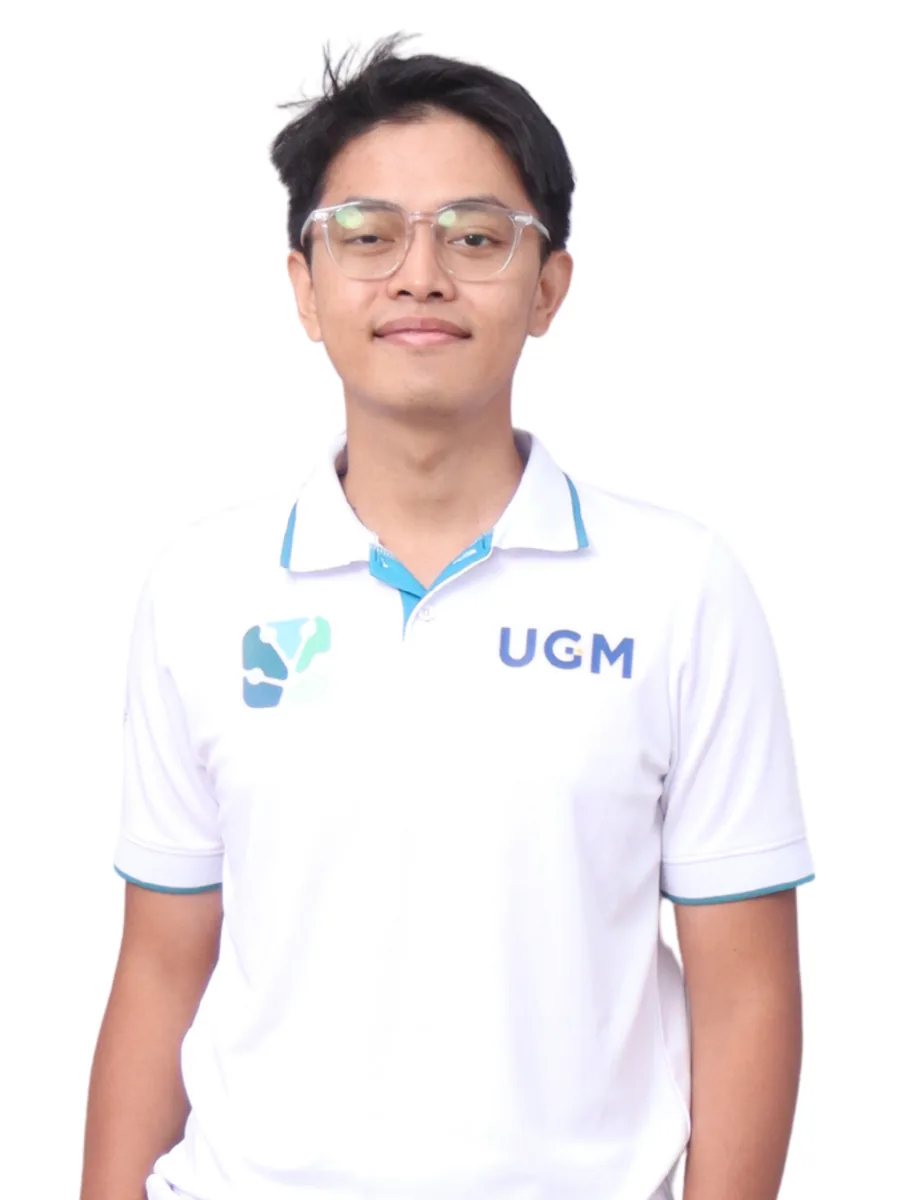
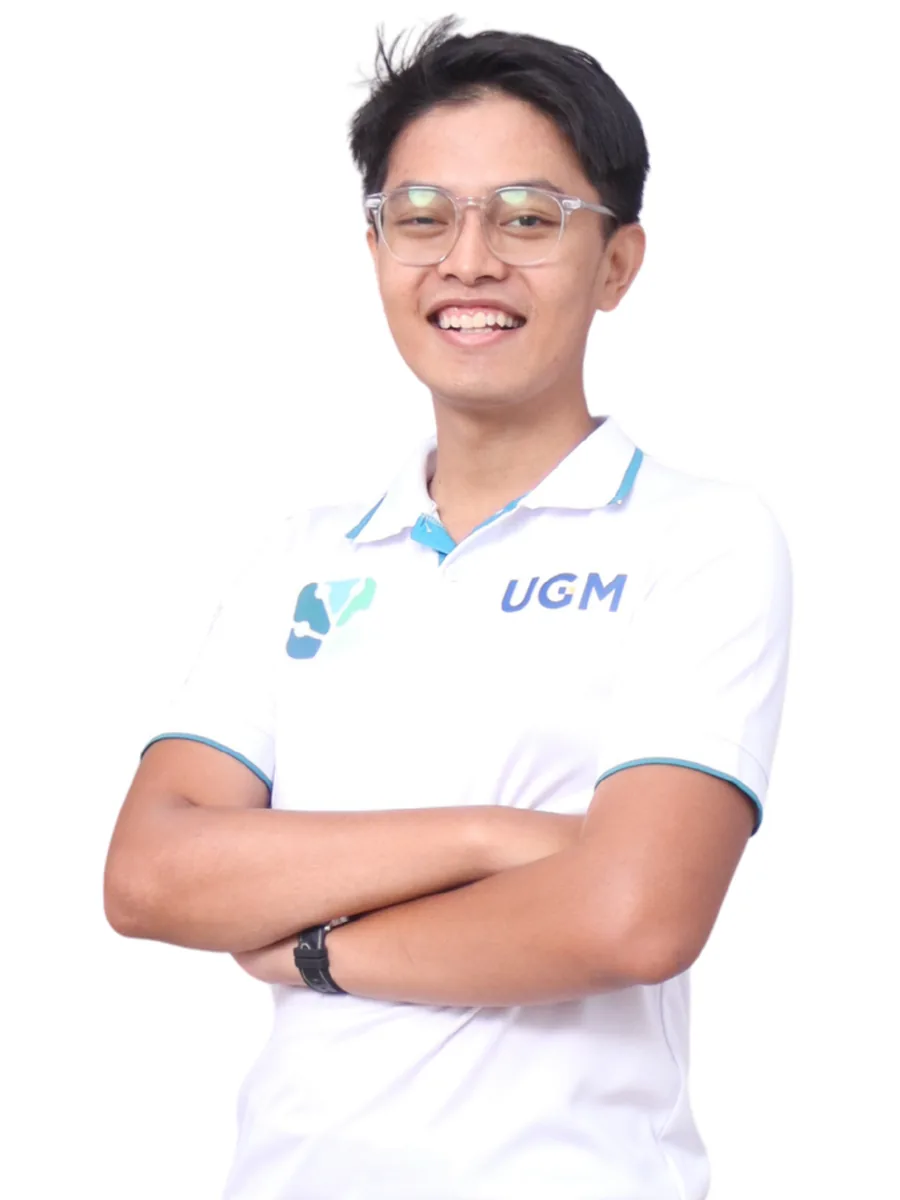
Add lecturer Murtiningrum, reorder members, add acadstaff/scholar links
Add Dr. Ir. Murtiningrum (irrigation engineering) with her portrait, and
replace Atha's portrait with the newer photo. Reorder the roster to the
requested sequence. Refine the lecturers' bios/expertise from their staff
handbooks (notably Prieska -> waste management, Ardan -> agricultural
energy & machinery). Add UGM academic-staff and Google Scholar profile
links, shown as buttons on each member's profile page.

diff --git a/web/src/lib/team.ts b/web/src/lib/team.ts
@@ -32,6 +32,10 @@ export type TeamMember = {
   /** Optional; buttons appear on the profile page when filled */
   email?: string;
   linkedin?: string;
+  /** UGM academic staff profile (acadstaff.ugm.ac.id) */
+  acadstaff?: string;
+  /** Google Scholar profile */
+  scholar?: string;
 };
 
 export const TEAM: TeamMember[] = [
@@ -44,18 +48,21 @@ export const TEAM: TeamMember[] = [
     category: "Lecturer",
     coordinator: true,
     core: true,
-    bio: "Coordinator of the Smart Agriculture Research Center and lecturer at the Department of Agricultural and Biosystems Engineering, UGM. His work spans smart farming systems, IoT-based field monitoring, and precision agriculture, supervising research from UAV multispectral monitoring to plant-factory environmental control.",
+    bio: "Coordinator of the Smart Agriculture Research Center and lecturer at the Department of Agricultural and Biosystems Engineering, UGM. His work centers on agricultural informatics and precision agriculture, from precision livestock farming and smart greenhouses to IoT and big-data estimation of crop water requirements.",
     expertise: [
-      "Smart farming systems",
-      "IoT sensing",
+      "Agricultural informatics",
       "Precision agriculture",
-      "Plant factory",
+      "IoT sensing",
+      "Smart farming systems",
     ],
     projects: [
-      "UAV-VTOL multispectral monitoring for precision agriculture",
-      "EIS-based plant physiological sensing",
-      "Smart greenhouse and plant factory systems",
+      "Precision livestock farming and decision-support systems",
+      "IoT and big-data crop water requirement estimation",
+      "Smart estate technology for oil-palm land management",
     ],
+    acadstaff: "https://acadstaff.ugm.ac.id/andrew",
+    scholar:
+      "https://scholar.google.com/citations?user=OcZOXugAAAAJ&hl=en&oi=ao",
   },
   {
     slug: "lilik-sutiarso",
@@ -64,16 +71,39 @@ export const TEAM: TeamMember[] = [
     role: "Lecturer",
     category: "Lecturer",
     core: true,
-    bio: "Professor of agricultural and biosystems engineering at UGM with decades of work on agricultural systems engineering, mechanization, and decision-support modeling for sustainable agricultural production.",
+    bio: "Professor of agricultural and biosystems engineering at UGM. His work centers on agricultural systems, precision farming, and intelligent control systems, from integrated smart farming systems to precision agricultural technology for sustainable production.",
     expertise: [
-      "Agricultural systems engineering",
-      "Mechanization",
-      "Decision support modeling",
+      "Agricultural systems",
+      "Precision farming",
+      "Intelligent control systems",
     ],
     projects: [
-      "Decision-support systems for sustainable production",
-      "Precision agriculture research supervision",
+      "Integrated smart farming systems",
+      "Precision agricultural technology for horticulture",
     ],
+    acadstaff: "https://acadstaff.ugm.ac.id/Soetiarso",
+    scholar: "https://scholar.google.com/citations?user=JHLikMoAAAAJ&hl=en",
+  },
+  {
+    slug: "murtiningrum",
+    name: "Murtiningrum",
+    fullName: "Dr. Ir. Murtiningrum, S.T.P., M.Eng., IPU., ASEAN Eng.",
+    role: "Lecturer",
+    category: "Lecturer",
+    core: true,
+    bio: "Lecturer at the Department of Agricultural and Biosystems Engineering, UGM, specializing in irrigation engineering and irrigation management. Her work spans smart irrigation water management, drip and mist irrigation for vegetables, irrigation modernization, and cloud-integrated soil moisture and water-level monitoring.",
+    expertise: [
+      "Irrigation engineering",
+      "Irrigation management",
+      "Smart water management",
+    ],
+    projects: [
+      "Smart irrigation water management in the Kedung Putri irrigation area",
+      "Drip and mist irrigation for vegetable crops",
+      "Cloud-integrated soil moisture and water-level monitoring",
+    ],
+    acadstaff: "https://acadstaff.ugm.ac.id/tiningm",
+    scholar: "https://scholar.google.com/citations?user=MMtGyvQAAAAJ&hl=en",
   },
   {
     slug: "mohammad-affan-fajar-falah",
@@ -92,6 +122,9 @@ export const TEAM: TeamMember[] = [
       "Vapor pressure deficit (VPD) control in micro-plant factories",
       "Urban mini-plant factory production systems",
     ],
+    acadstaff: "https://acadstaff.ugm.ac.id/MTk3NTA0MTAxOTk5MDMxMDAx",
+    scholar:
+      "https://scholar.google.com/citations?user=U4-hOxAAAAAJ&hl=en&oi=ao",
   },
   {
     slug: "prieskarinda-lestari",
@@ -100,13 +133,19 @@ export const TEAM: TeamMember[] = [
     role: "Lecturer",
     category: "Lecturer",
     core: true,
-    bio: "Lecturer at the Department of Agricultural and Biosystems Engineering, UGM, working on environmental engineering and water-resource systems for agriculture.",
+    bio: "Lecturer at the Department of Agricultural and Biosystems Engineering, UGM, working on environmental engineering, solid and agricultural waste management, and the valorization of agro-industrial waste, including microplastic pollution and water-quality monitoring.",
     expertise: [
       "Environmental engineering",
-      "Water resources",
-      "Irrigation systems",
+      "Agricultural waste management",
+      "Plastic pollution",
     ],
-    projects: ["Irrigation modernization research"],
+    projects: [
+      "Biodegradable products from tropical agro-industrial waste",
+      "Microplastic pollution and water-quality monitoring",
+    ],
+    acadstaff: "https://acadstaff.ugm.ac.id/prieskarindalestari",
+    scholar:
+      "https://scholar.google.com/citations?user=wpZYUaMAAAAJ&hl=en&oi=ao",
   },
   {
     slug: "ardan-wiratmoko",
@@ -115,16 +154,18 @@ export const TEAM: TeamMember[] = [
     role: "Lecturer",
     category: "Lecturer",
     core: true,
-    bio: "Lecturer and researcher specializing in spectral sensing for agriculture, from UAV-based multispectral mapping to hyperspectral analysis of crops in controlled environments, paired with machine learning.",
+    bio: "Lecturer and researcher at UGM working on agricultural energy and machinery, smart estate technology, and smart farming systems, from plant-factory monitoring to integrated land management and smart water management.",
     expertise: [
-      "Hyperspectral sensing",
-      "UAV remote sensing",
-      "Machine learning",
+      "Agricultural energy & machinery",
+      "Smart estate technology",
+      "Smart farming systems",
     ],
     projects: [
-      "Hyperspectral monitoring of microgreens in plant factories",
-      "UAV-VTOL multispectral monitoring of horticultural crops",
+      "Smart estate technology for oil-palm land management",
+      "Smart water management in irrigation areas",
     ],
+    scholar:
+      "https://scholar.google.com/citations?user=xsdMesgAAAAJ&hl=en&oi=ao",
   },
   {
     slug: "muhammad-athala-fawwaz-dzaky",
@@ -139,6 +180,8 @@ export const TEAM: TeamMember[] = [
       "VPD control in micro-plant factories",
       "Smart greenhouse climate systems",
     ],
+    scholar:
+      "https://scholar.google.com/citations?user=MrA1hJYAAAAJ&hl=en&oi=ao",
   },
   {
     slug: "fadel-arya-pradana",
@@ -150,6 +193,8 @@ export const TEAM: TeamMember[] = [
     bio: "Researcher working on remote sensing and data analysis for precision agriculture, including UAV multispectral monitoring of crop physiological performance.",
     expertise: ["Precision Agricultural Systems Engineering"],
     projects: ["UAV-VTOL multispectral monitoring for precision agriculture"],
+    scholar:
+      "https://scholar.google.com/citations?user=RiNC6lUAAAAJ&hl=en&oi=ao",
   },
   {
     slug: "samuel-gatot-marseno",
@@ -172,6 +217,19 @@ export const TEAM: TeamMember[] = [
     bio: "Researcher focusing on sensor development and instrumentation, including electrical impedance spectroscopy (EIS) approaches for non-destructive plant physiological measurement.",
     expertise: ["Plant Electrophysiology & Electrical Spectroscopy"],
     projects: ["EIS-based chlorophyll estimation in leafy crops"],
+    scholar:
+      "https://scholar.google.com/citations?user=AJP86NUAAAAJ&hl=en&oi=ao",
+  },
+  {
+    slug: "fathuzaky-setyawan",
+    name: "Fathuzaky Setyawan",
+    fullName: "Fathuzaky Setyawan",
+    role: "Researcher",
+    category: "Researcher",
+    core: true,
+    bio: "Researcher at the Smart Agriculture Research Center working on agricultural data systems engineering.",
+    expertise: ["Agricultural Data Systems Engineering"],
+    projects: ["Smart farming research programs"],
   },
   {
     slug: "diena-itaul-mufida",
@@ -217,17 +275,6 @@ export const TEAM: TeamMember[] = [
     expertise: ["Spectral Data Analytics"],
     projects: ["Smart farming research programs"],
   },
-  {
-    slug: "fathuzaky-setyawan",
-    name: "Fathuzaky Setyawan",
-    fullName: "Fathuzaky Setyawan",
-    role: "Researcher",
-    category: "Researcher",
-    core: true,
-    bio: "Researcher at the Smart Agriculture Research Center working on agricultural data systems engineering.",
-    expertise: ["Agricultural Data Systems Engineering"],
-    projects: ["Smart farming research programs"],
-  },
 ];
 
 // Members with a white-background portrait in public/brand/team/<slug>.webp.
@@ -236,6 +283,7 @@ export const TEAM: TeamMember[] = [
 const SLUGS_WITH_PHOTO = new Set<string>([
   "andri-prima-nugroho",
   "lilik-sutiarso",
+  "murtiningrum",
   "mohammad-affan-fajar-falah",
   "muhammad-fajar-ridho-ilham",
   "prieskarinda-lestari",

diff --git a/web/src/routes/team_.$slug.tsx b/web/src/routes/team_.$slug.tsx
@@ -5,6 +5,7 @@ import {
   ArrowUpRight,
   BookOpen,
   FlaskConical,
+  GraduationCap,
   Linkedin,
   Mail,
   Sparkles,
@@ -92,7 +93,10 @@ function MemberPage() {
                 <div className="aspect-[4/5] rounded-3xl overflow-hidden border border-[#0B6477]/10">
                   <MemberPhoto member={member} index={memberIndex} />
                 </div>
-                {(member.email || member.linkedin) && (
+                {(member.email ||
+                  member.linkedin ||
+                  member.acadstaff ||
+                  member.scholar) && (
                   <div className="flex flex-col gap-2">
                     {member.email && (
                       <a
@@ -102,6 +106,30 @@ function MemberPage() {
                       >
                         <Mail className="w-4 h-4" />
                         Email
+                      </a>
+                    )}
+                    {member.acadstaff && (
+                      <a
+                        href={member.acadstaff}
+                        target="_blank"
+                        rel="noreferrer"
+                        className="flex items-center justify-center gap-2 h-11 rounded-2xl border border-[#0B6477] text-[#0B6477] font-medium hover:bg-[#0B6477] hover:text-white transition-colors"
+                        style={body}
+                      >
+                        <GraduationCap className="w-4 h-4" />
+                        Academic Staff
+                      </a>
+                    )}
+                    {member.scholar && (
+                      <a
+                        href={member.scholar}
+                        target="_blank"
+                        rel="noreferrer"
+                        className="flex items-center justify-center gap-2 h-11 rounded-2xl border border-[#0B6477] text-[#0B6477] font-medium hover:bg-[#0B6477] hover:text-white transition-colors"
+                        style={body}
+                      >
+                        <BookOpen className="w-4 h-4" />
+                        Google Scholar
                       </a>
                     )}
                     {member.linkedin && (
